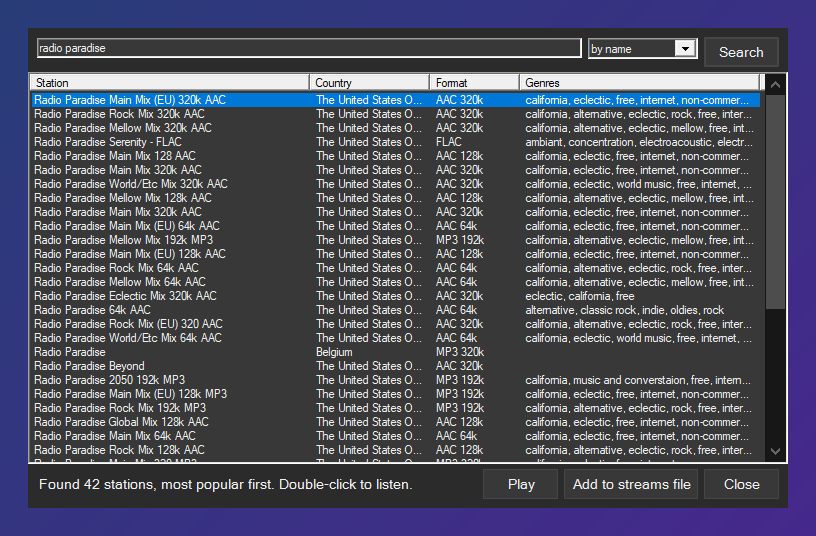
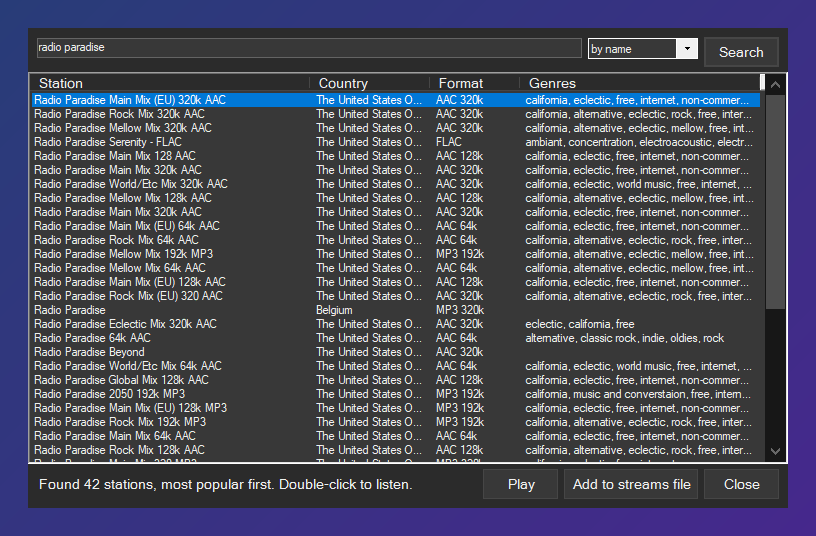
Dark search window: readable column headers, dark text box and combo box

diff --git a/Source/GaGa/Controls/Theme.cs b/Source/GaGa/Controls/Theme.cs
@@ -124,6 +124,40 @@ namespace GaGa.Controls
         }
 
         /// <summary>
+        /// List headers keep their light look (and dark text) whatever the
+        /// colors, so in dark mode they are drawn here; the rows as usual.
+        /// </summary>
+        private static void ApplyListView(ListView list, Boolean dark)
+        {
+            if (!(list.Tag is String && (String) list.Tag == "themed"))
+            {
+                list.Tag = "themed";
+                list.DrawColumnHeader += OnDrawColumnHeader;
+                list.DrawItem += (s, e) => e.DrawDefault = true;
+                list.DrawSubItem += (s, e) => e.DrawDefault = true;
+            }
+
+            list.OwnerDraw = dark;
+            list.Invalidate();
+        }
+
+        private static void OnDrawColumnHeader(Object sender, DrawListViewColumnHeaderEventArgs e)
+        {
+            using (SolidBrush back = new SolidBrush(DarkBack))
+                e.Graphics.FillRectangle(back, e.Bounds);
+
+            using (Pen line = new Pen(DarkBorder))
+            {
+                e.Graphics.DrawLine(line, e.Bounds.Right - 1, e.Bounds.Top + 3, e.Bounds.Right - 1, e.Bounds.Bottom - 4);
+                e.Graphics.DrawLine(line, e.Bounds.Left, e.Bounds.Bottom - 1, e.Bounds.Right, e.Bounds.Bottom - 1);
+            }
+
+            Rectangle text = new Rectangle(e.Bounds.X + 6, e.Bounds.Y, e.Bounds.Width - 10, e.Bounds.Height);
+            TextRenderer.DrawText(e.Graphics, e.Header.Text, e.Font, text, DarkText,
+                TextFormatFlags.VerticalCenter | TextFormatFlags.Left | TextFormatFlags.EndEllipsis | TextFormatFlags.NoPrefix);
+        }
+
+        /// <summary>
         /// Colors for a window and everything in it.
         /// </summary>
         public static void Apply(Control control)
@@ -139,6 +173,14 @@ namespace GaGa.Controls
             {
                 control.BackColor = dark ? DarkControl : SystemColors.Window;
                 control.ForeColor = dark ? DarkText : SystemColors.WindowText;
+
+                // the themed (3D) borders and combo boxes ignore BackColor:
+                if (control is TextBox)
+                    ((TextBox) control).BorderStyle = dark ? BorderStyle.FixedSingle : BorderStyle.Fixed3D;
+                if (control is ComboBox)
+                    ((ComboBox) control).FlatStyle = dark ? FlatStyle.Flat : FlatStyle.Standard;
+                if (control is ListView)
+                    ApplyListView((ListView) control, dark);
 
                 if (control.IsHandleCreated)
                     ApplyNativeTheme(control);
